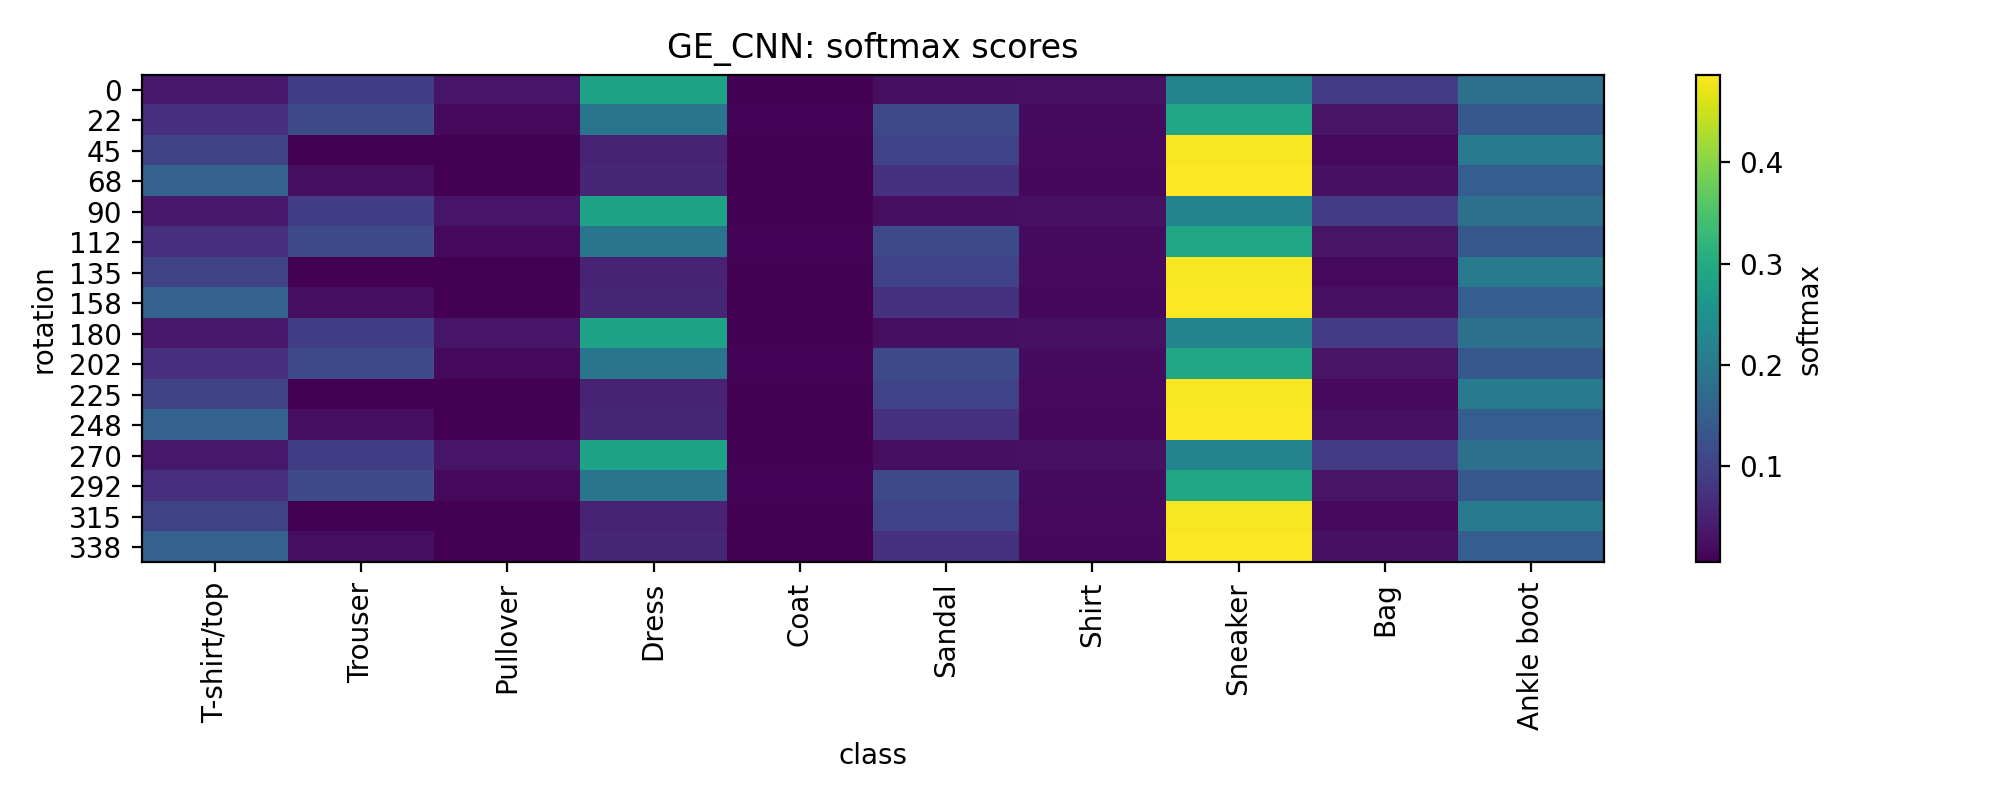
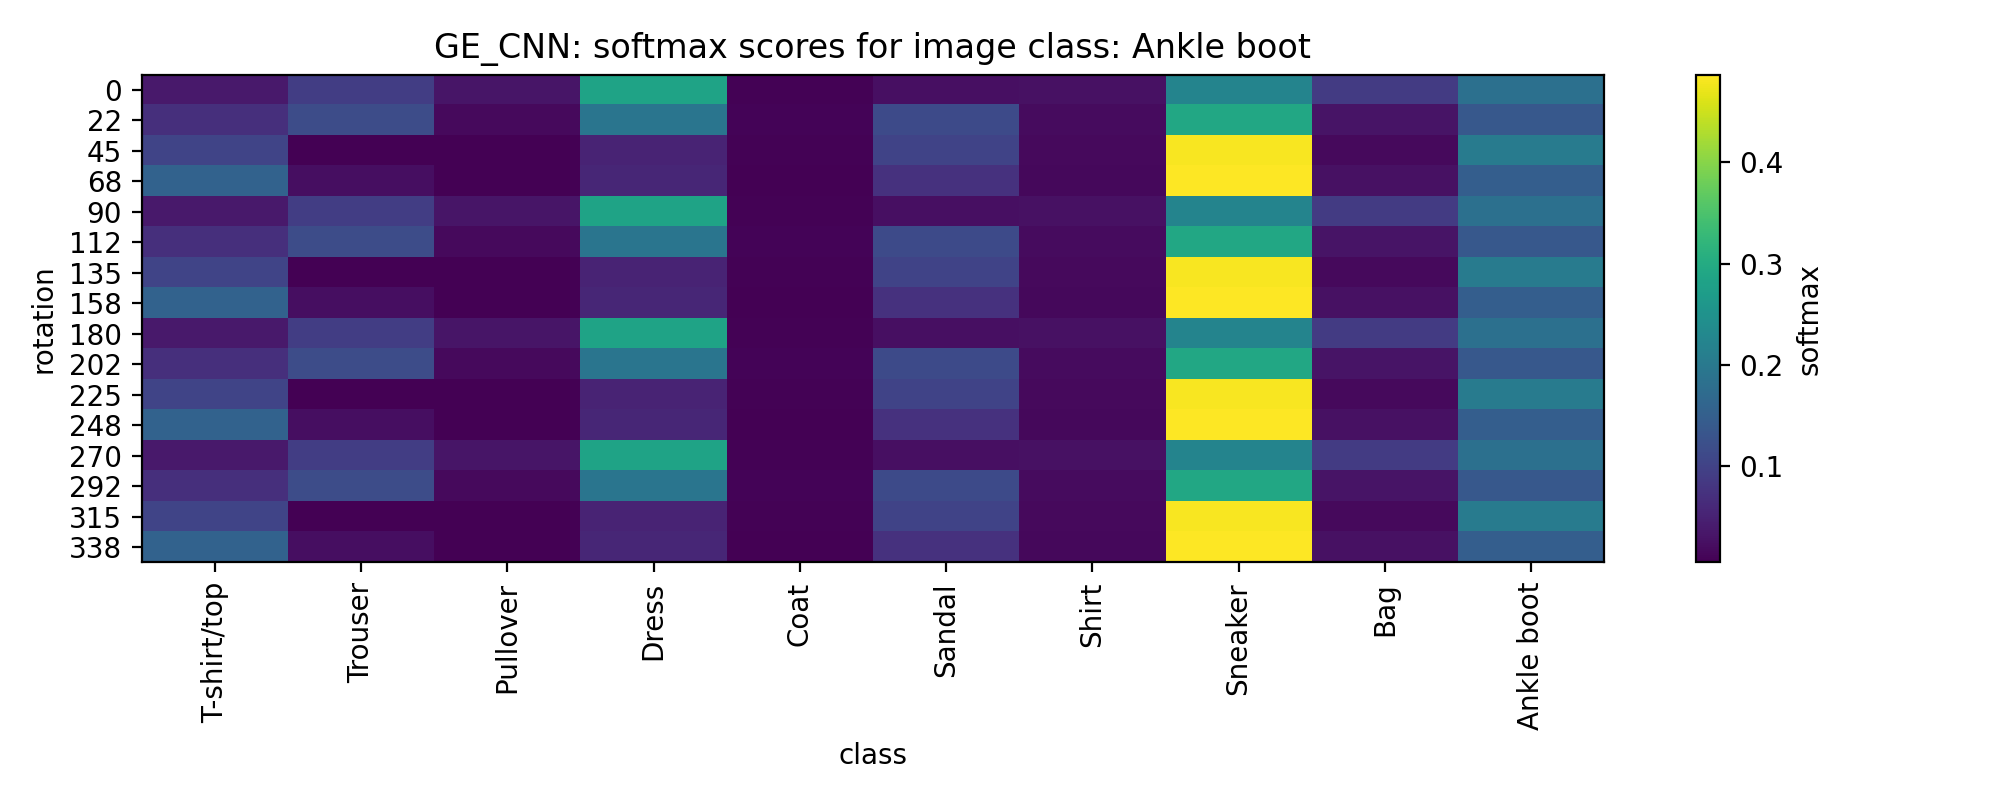
Updated plots for equivariance

Changed region(s): [[0.217, 0.0312, 0.651, 0.0938]]

diff --git a/src/quantified_equivariance_test.py b/src/quantified_equivariance_test.py
@@ -1,6 +1,6 @@
 """Quantify rotation invariance/equivariance of CNN vs GE-CNN.
 
-Per image it produces: feature plots, class-score grids (logit + softmax), a logit
+Per image it produces: feature plots, class-score grids (logit + softmax), a softmax
 invariance diff-grid, and a feature equivariance diff-grid. Over the test set it
 reports three scalar metrics, each split into 90-deg-multiple angles (exact rotations,
 the architectural floor) vs interpolated angles (the bilinear-interpolation floor):
@@ -34,10 +34,10 @@ WEIGHTS = {
     "GE_CNN": ROOT / "models/model_weights/GE_CNN_smallrot_ch4_l2_r6_3pct.pth",
 }
 N_ROTATIONS   = 16     # number of angles, full circle (multiple of 4 -> 90-deg pairs exist)
-TARGET_LAYER  = 2      # depth of the partial model for the feature plots / equivariance
+TARGET_LAYER  = 6      # depth of the partial model used for the scalar metric table
 NUM_IMAGES    = 1      # images to produce per-image plots/grids for
 NUM_QUANT_IMG = 100    # images to average the scalar metrics over
-CHANNEL       = -1     # feature channel to visualise
+CHANNEL       = 1      # default feature channel (per-plot channel is set in main)
 PADDING       = True
 DEVICE        = "cuda" if torch.cuda.is_available() else "cpu"
 OUT_DIR       = ROOT / "reports" / "quant_equi"
@@ -48,9 +48,9 @@ CLASS_NAMES = ["T-shirt/top", "Trouser", "Pullover", "Dress", "Coat",
                "Sandal", "Shirt", "Sneaker", "Bag", "Ankle boot"]
 
 # Angle index sets: ORTHO = multiples of 90 deg (exact on a pixel grid), INTERP = the rest.
-def _is_ortho(a):
+def is_ortho(a:float):
     return abs(a / 90 - round(a / 90)) < 1e-6
-ORTHO        = [k for k, a in enumerate(ANGLES) if _is_ortho(a)]          # 0, 90, 180, 270
+ORTHO        = [k for k, a in enumerate(ANGLES) if is_ortho(a)]
 INTERP       = [k for k in range(len(ANGLES)) if k not in ORTHO]
 FEAT_NONZERO = [k for k in range(len(ANGLES)) if k != 0]                  # drop trivial theta=0
 FEAT_ORTHO   = [k for k in ORTHO if k != 0]                               # 90, 180, 270
@@ -65,38 +65,37 @@ def load_model(path):
     return model
 
 
-def make_partial(model):
+def make_partial(model, target_layer=TARGET_LAYER): #Tager kun de led af modellen, som vi vil se igennem lag, for feature plot
     layers = list((model.features if model.name == "CNN" else model.model).children())
-    return nn.Sequential(*layers[:min(TARGET_LAYER, len(layers))])
+    return nn.Sequential(*layers[:min(target_layer, len(layers))])
 
 
 def rotate_to_angles(img):                       # img [1,H,W] -> [N_angles,1,H,W]
-    return torch.stack([rotate(img, a, interpolation=InterpolationMode.BILINEAR, fill=0)
-                        for a in ANGLES])
+    return torch.stack([rotate(img, a, interpolation=InterpolationMode.BILINEAR, fill=0)for a in ANGLES])
 
 
-# ---- metrics ----
+#metrics
 
-def rms(O, center):                              # O [N,C] -> dispersion of rows across rotations
+def rms(O, center):                              # O [Rotation,Logit value] -> dispersion of rows across rotations
     X = (O - O.mean(dim=1, keepdim=True)) if center else O   # center: drop softmax constant-offset gauge
     V = ((X - X.mean(dim=0, keepdim=True)) ** 2).sum(dim=1).mean()   # = sum_c Var_angles(col_c)
     return float(V.sqrt())                       # RMS
 
 
-def circular_mask(h, w, device):                 # inscribed disk: stays in-frame under rotation
+def circular_mask(h, w, device):# laver en ciruklær maske, som kun regner fejlen inden for upåvirket cirkulære radius
     ys, xs = torch.meshgrid(torch.arange(h, device=device), torch.arange(w, device=device), indexing="ij")
     r = torch.sqrt((ys - (h - 1) / 2) ** 2 + (xs - (w - 1) / 2) ** 2)
     return (r <= min((h - 1) / 2, (w - 1) / 2)).float()
 
 
-def masked_rel_l2(a, b, mask):                   # a,b [C,h,w] -> relative L2 inside mask
-    m = mask[None]
-    num = (((a - b) * m) ** 2).sum().sqrt()
-    den = ((b * m) ** 2).sum().sqrt() + 1e-12
-    return float(num / den)
+def masked_rel_l2(a, b, mask):# a,b [C,h,w] -> relative L2 inside mask
+    m = mask[None] #[1, 32, 32]
+    num = (((a - b) * m) ** 2).sum().sqrt() #Fjerner hjørner med mask l_2 norm
+    den = ((b * m) ** 2).sum().sqrt() + 1e-12 # l2 dist  af a og b
+    return float(num / den) #normalized/ relativ output
 
 
-def feature_equivariance(partial, img):          # img [1,H,W] -> per-angle rel-L2( f(rho x), rho f(x) )
+def feature_equivariance(partial: nn.Sequential, img):  # img [1,H,W] -> per-angle rel-L2( f(rho x), rho f(x) )
     with torch.no_grad():
         f0 = partial(img[None]).abs()[0]         # f(x): reference feature of the unrotated image
     mask = circular_mask(*f0.shape[-2:], f0.device)
@@ -104,47 +103,62 @@ def feature_equivariance(partial, img):          # img [1,H,W] -> per-angle rel-
     for a in ANGLES:
         x_rot = rotate(img, a, interpolation=InterpolationMode.BILINEAR, fill=0)
         with torch.no_grad():
-            f_rot = partial(x_rot[None]).abs()[0]                # f(rho x)
+            f_rot = partial(x_rot[None]).abs()[0]  # f(rho x)
         ref = rotate(f0, a, interpolation=InterpolationMode.BILINEAR, fill=0)   # rho f(x)
         errs.append(masked_rel_l2(f_rot, ref, mask))
     return np.array(errs)
 
 
-# ---- plots ----
+#plots
 
-def plot_feature_grid(feats, name, idx):         # feats: list of [C,h,w] (abs), one per angle
-    ref = rotate_to_angles(feats[0][CHANNEL][None].cpu())        # rho f(x): rotate the unrotated feature
-    n = len(feats)
+def feats_at(model, target_layer, img):          # img [1,H,W] -> list of [C,h,w] (abs |f|), one per global angle
+    partial = make_partial(model, target_layer)
+    rots = rotate_to_angles(img).to(DEVICE)
+    with torch.no_grad():
+        return [partial(r[None]).abs()[0] for r in rots]
+
+
+def plot_feature_grid(model, name, target_layer, channel, img, angles=(0, 90, 22.5, 45)):
+    feats = feats_at(model, target_layer, img)
+    idxs  = [min(range(len(ANGLES)), key=lambda k: abs(ANGLES[k] - a)) for a in angles]
+    ch0   = feats[0][channel].cpu()
+    bg    = float(ch0.min())                      # fill rotated-in corners with the background value
+    ref   = torch.stack([rotate(ch0[None], a, interpolation=InterpolationMode.BILINEAR, fill=bg)
+                         for a in ANGLES])
+    n = len(angles)
     fig, ax = plt.subplots(2, n, figsize=(3 * n, 6))
-    for i, f in enumerate(feats):
-        ax[0, i].imshow(ref[i, 0].numpy(), cmap="gray"); ax[0, i].axis("off")
-        ax[0, i].set_title(f"rho(g)f(x)  {ANGLES[i]:.0f}")
-        ax[1, i].imshow(f[CHANNEL].cpu().numpy(), cmap="gray"); ax[1, i].axis("off")
-        ax[1, i].set_title(f"f(rho(g)x)  {ANGLES[i]:.0f}")
-    fig.tight_layout(); fig.savefig(OUT_DIR / f"{name}_feature_plot_img{idx}.png", dpi=200); plt.close(fig)
+    fig.suptitle(rf"{name}  |  layer {target_layer}  |  $|f|$ channel {channel}", fontsize=14)
+    for col, (a, gi) in enumerate(zip(angles, idxs)):
+        ax[0, col].imshow(ref[gi, 0].numpy(), cmap="viridis"); ax[0, col].axis("off")
+        ax[0, col].set_title(rf"$\rho(g)\,f(x)$  {a:.0f}°")
+        ax[1, col].imshow(feats[gi][channel].cpu().numpy(), cmap="viridis"); ax[1, col].axis("off")
+        ax[1, col].set_title(rf"$f(\rho(g)\,x)$  {a:.0f}°")
+    fig.tight_layout(rect=[0, 0, 1, 0.95])
+    fig.savefig(OUT_DIR / f"{name}_L{target_layer}_ch{channel}_feature_plot.png", dpi=200)
 
 
-def plot_class_scores(mat, name, idx, kind):     # mat [N_angles,10]
+def plot_class_scores(mat, name, idx, kind, cls):     # mat [N_angles,10]; cls = true class of the image
     plt.figure(figsize=(10, 4))
     plt.imshow(mat.cpu().numpy(), aspect="auto", cmap="viridis")
     plt.colorbar(label=kind); plt.xlabel("class"); plt.ylabel("rotation")
     plt.xticks(range(10), CLASS_NAMES, rotation=90)
     plt.yticks(range(len(ANGLES)), [f"{a:.0f}" for a in ANGLES])
-    plt.title(f"{name}: {kind} scores"); plt.tight_layout()
+    plt.title(f"{name}: {kind} scores for image class: {cls}"); plt.tight_layout()
     plt.savefig(OUT_DIR / f"{name}_classscores_{kind}_img{idx}.png", dpi=200); plt.close()
 
 
-def plot_logit_diffgrid(mat, name, idx):         # invariance: ||o_i - o_j|| (no alignment)
-    D = torch.cdist(mat, mat).cpu().numpy()
+def plot_invariance_grid(probs, name, idx):      # invariance on softmax probs: ||p_i - p_j||
+    D = torch.cdist(probs, probs).cpu().numpy()
     plt.figure(figsize=(6, 5))
-    plt.imshow(D, cmap="viridis"); plt.colorbar(label="||logits_i - logits_j||")
+    plt.imshow(D, cmap="viridis"); plt.colorbar(label=r"$\|p_i - p_j\|$  (softmax)")
     plt.xticks(range(len(ANGLES)), [f"{a:.0f}" for a in ANGLES], rotation=90)
     plt.yticks(range(len(ANGLES)), [f"{a:.0f}" for a in ANGLES])
-    plt.xlabel("angle j"); plt.ylabel("angle i"); plt.title(f"{name}: logit invariance grid")
-    plt.tight_layout(); plt.savefig(OUT_DIR / f"{name}_diffgrid_img{idx}.png", dpi=200); plt.close()
+    plt.xlabel("angle j"); plt.ylabel("angle i"); plt.title(f"{name}: softmax invariance grid")
+    plt.tight_layout(); plt.savefig(OUT_DIR / f"{name}_invariance_grid_img{idx}.png", dpi=200); plt.close()
 
 
-def plot_feature_diffgrid(feats, name, idx):     # equivariance: rel-L2( rho_{j-i} f(rho_i x), f(rho_j x) )
+def plot_feature_diffgrid(model, name, target_layer, img):   # equivariance grid at a given depth
+    feats = feats_at(model, target_layer, img)
     n = len(feats)
     mask = circular_mask(*feats[0].shape[-2:], feats[0].device)
     D = np.zeros((n, n))
@@ -153,11 +167,12 @@ def plot_feature_diffgrid(feats, name, idx):     # equivariance: rel-L2( rho_{j-
             aligned = rotate(feats[i], ANGLES[j] - ANGLES[i], interpolation=InterpolationMode.BILINEAR, fill=0)
             D[i, j] = masked_rel_l2(aligned, feats[j], mask)
     plt.figure(figsize=(6, 5))
-    plt.imshow(D, cmap="viridis"); plt.colorbar(label="rel-L2( rho(f_i), f_j )")
+    plt.imshow(D, cmap="viridis", vmin=0, vmax=1); plt.colorbar(label=r"rel-L2$(\;\rho_{j-i}\,f(\rho_i x),\ f(\rho_j x)\;)$")
     plt.xticks(range(n), [f"{a:.0f}" for a in ANGLES], rotation=90)
     plt.yticks(range(n), [f"{a:.0f}" for a in ANGLES])
-    plt.xlabel("angle j"); plt.ylabel("angle i"); plt.title(f"{name}: feature equivariance grid")
-    plt.tight_layout(); plt.savefig(OUT_DIR / f"{name}_feature_diffgrid_img{idx}.png", dpi=200); plt.close()
+    plt.xlabel("angle j"); plt.ylabel("angle i")
+    plt.title(rf"{name}: feature equivariance grid (layer {target_layer})")
+    plt.tight_layout(); plt.savefig(OUT_DIR / f"{name}_feature_diffgrid_L{target_layer}.png", dpi=200)
 
 
 def ms(values):
@@ -167,26 +182,35 @@ def ms(values):
 
 def main():
     OUT_DIR.mkdir(parents=True, exist_ok=True)
-    data = RotatedMNIST(split="test", rotated=False, padding=PADDING)   # unrotated; we rotate ourselves
-    summary = {}
+    data   = RotatedMNIST(split="test", rotated=False, padding=PADDING)   # unrotated; we rotate ourselves
+    img0   = data[0][0]
+    cls0   = CLASS_NAMES[int(data[0][1])]                                 # true class of the shown image
+    models = {name: load_model(path) for name, path in WEIGHTS.items()}
 
-    for name, path in WEIGHTS.items():
-        model = load_model(path)
-        partial = make_partial(model)
+    # --- Feature plots: (model, layer, channel) ---
+    for name, layer, ch in [("GE_CNN", 2, 3), ("GE_CNN", 6, 7),
+                            ("CNN", 2, 3), ("CNN", 6, 15)]:
+        plot_feature_grid(models[name], name, layer, ch, img0)
+
+    # --- Feature equivariance grids at layer 2 and 6, both models ---
+    for name, model in models.items():
+        for layer in (2, 6):
+            plot_feature_diffgrid(model, name, layer, img0)
+
+    # --- Invariance plots + scalar metrics (table uses global TARGET_LAYER) ---
+    summary = {}
+    for name, model in models.items():
+        partial  = make_partial(model, TARGET_LAYER)
         n_params = sum(p.numel() for p in model.parameters())
         print(f"\n=== {name} | params={n_params:,} | layers={TARGET_LAYER} | angles={N_ROTATIONS} ===")
 
-        for i in range(NUM_IMAGES):                       # per-image plots
-            rots = rotate_to_angles(data[i][0]).to(DEVICE)
-            with torch.no_grad():
-                feats  = [partial(r[None]).abs()[0] for r in rots]
-                logits = torch.stack([model(r[None])[0] for r in rots])
-            soft = torch.softmax(logits, dim=1)
-            plot_feature_grid(feats, name, i)
-            plot_class_scores(logits, name, i, "logit")
-            plot_class_scores(soft, name, i, "softmax")
-            plot_logit_diffgrid(logits, name, i)          # invariance
-            plot_feature_diffgrid(feats, name, i)         # equivariance
+        rots = rotate_to_angles(img0).to(DEVICE)
+        with torch.no_grad():
+            logits = torch.stack([model(r[None])[0] for r in rots])
+        soft = torch.softmax(logits, dim=1)
+        plot_class_scores(logits, name, 0, "logit", cls0)
+        plot_class_scores(soft,   name, 0, "softmax", cls0)
+        plot_invariance_grid(soft, name, 0)               # invariance, on softmax probs
 
         acc = {m: {s: [] for s in ("all", "ortho90", "interp")}
                for m in ("logit", "softmax", "feature")}
@@ -216,6 +240,7 @@ def main():
 
     json.dump(summary, open(OUT_DIR / "invariance_summary.json", "w"), indent=2)
     print(f"\nDone. Plots + summary in {OUT_DIR}")
+
 
 
 if __name__ == "__main__":
